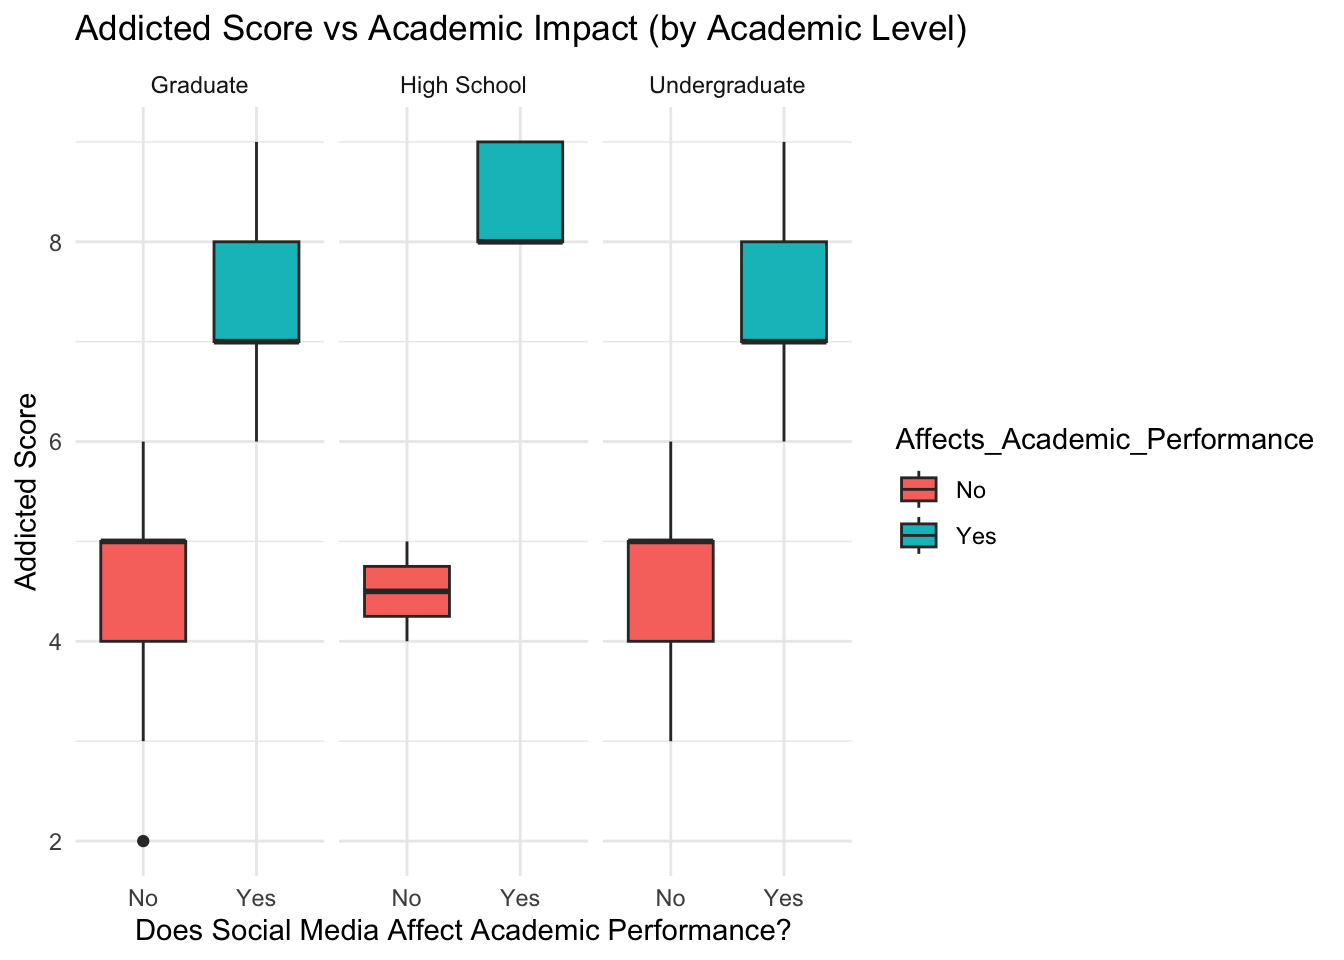
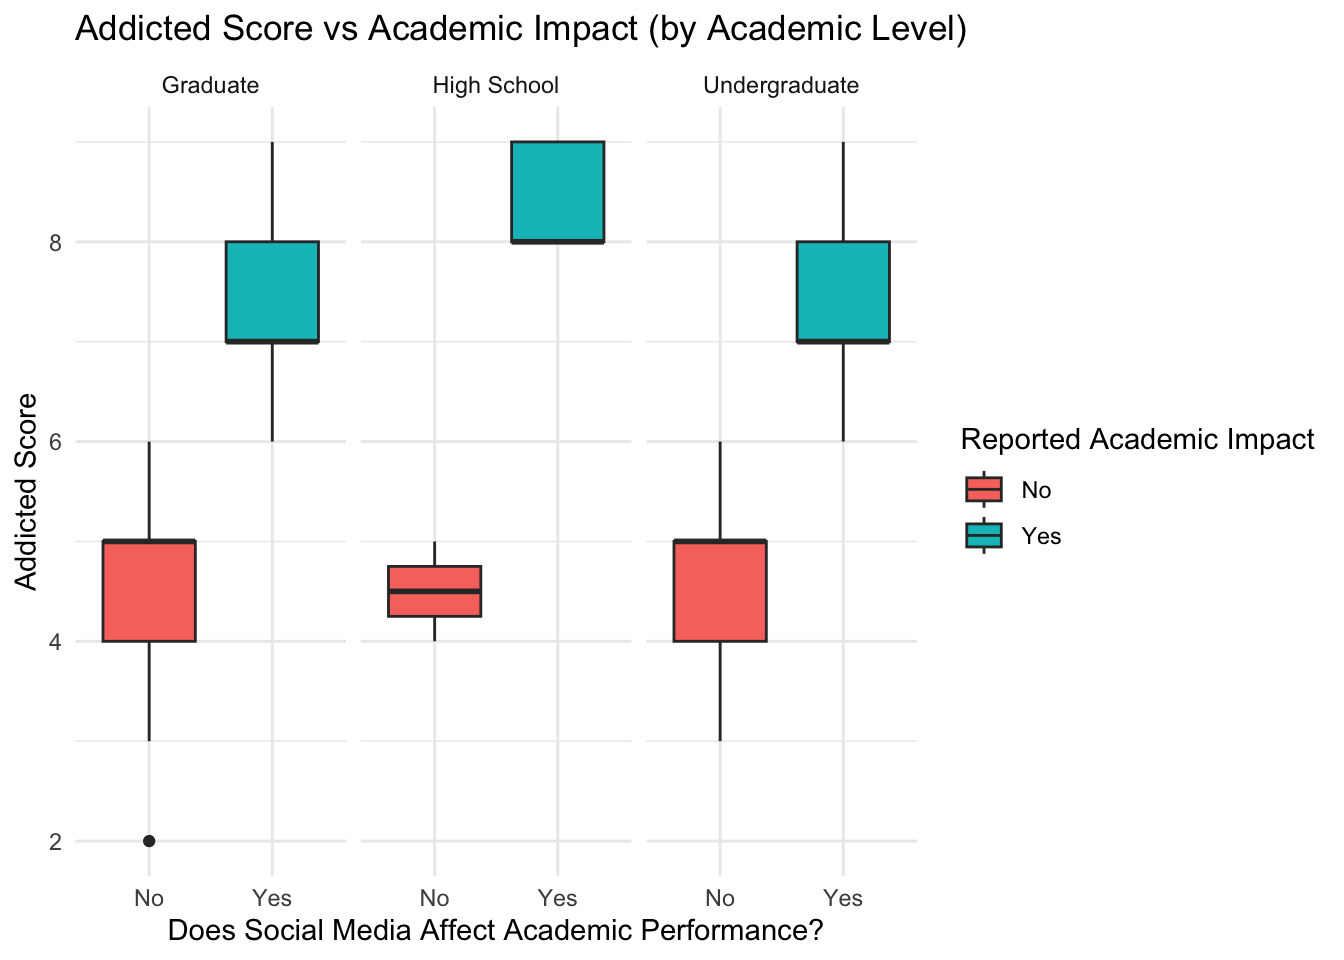
Added Executive Summary

diff --git a/assignment 3.html b/assignment 3.html
@@ -91,10 +91,11 @@ div.csl-indent {
 
 </head>
 
-<body class="fullcontent">
+<body>
 
 <div id="quarto-content" class="page-columns page-rows-contents page-layout-article">
-
+<div id="quarto-margin-sidebar" class="sidebar margin-sidebar">
+<div class="quarto-alternate-formats"><h2>Other Formats</h2><ul><li><a href="assignment-3.pdf"><i class="bi bi-file-pdf"></i>PDF</a></li></ul></div></div>
 <main class="content" id="quarto-document-content">
 
 <header id="title-block-header" class="quarto-title-block default">
@@ -116,6 +117,11 @@ div.csl-indent {
 </header>
 
 
+<div style="page-break-after: always;"></div>
+<section id="executive-summary" class="level2">
+<h2 class="anchored" data-anchor-id="executive-summary">Executive Summary</h2>
+<p>This study explores how social media addiction affects students’ academic performance, interpersonal relationships, and mental health. The results show that higher addiction scores are associated with poorer academic outcomes, increased interpersonal conflict, and reduced mental well-being. This pattern varies across platforms, with WhatsApp, TikTok, and Snapchat showing the highest average addiction scores. These findings may guide future research on social media addiction and help inform policies and educational strategies aimed at improving student well-being.</p>
+</section>
 <section id="introduction" class="level2">
 <h2 class="anchored" data-anchor-id="introduction">Introduction</h2>
 <p>Social media platforms—such as Instagram, TikTok, and YouTube—have become an integral part of students’ lives, which influence their relationships, habits, and self-perception.</p>
@@ -419,8 +425,9 @@ Table&nbsp;2: Average Usage Hours and Addiction Score by Platform
 <span id="cb10-5"><a href="#cb10-5" aria-hidden="true" tabindex="-1"></a>  <span class="fu">facet_wrap</span>(<span class="sc">~</span> Academic_Level) <span class="sc">+</span></span>
 <span id="cb10-6"><a href="#cb10-6" aria-hidden="true" tabindex="-1"></a>  <span class="fu">labs</span>(<span class="at">title =</span> <span class="st">"Addicted Score vs Academic Impact (by Academic Level)"</span>,</span>
 <span id="cb10-7"><a href="#cb10-7" aria-hidden="true" tabindex="-1"></a>       <span class="at">x =</span> <span class="st">"Does Social Media Affect Academic Performance?"</span>,</span>
-<span id="cb10-8"><a href="#cb10-8" aria-hidden="true" tabindex="-1"></a>       <span class="at">y =</span> <span class="st">"Addicted Score"</span>) <span class="sc">+</span></span>
-<span id="cb10-9"><a href="#cb10-9" aria-hidden="true" tabindex="-1"></a>  <span class="fu">theme_minimal</span>()</span></code><button title="Copy to Clipboard" class="code-copy-button"><i class="bi"></i></button></pre></div>
+<span id="cb10-8"><a href="#cb10-8" aria-hidden="true" tabindex="-1"></a>       <span class="at">y =</span> <span class="st">"Addicted Score"</span>,</span>
+<span id="cb10-9"><a href="#cb10-9" aria-hidden="true" tabindex="-1"></a>       <span class="at">fill =</span> <span class="st">"Reported Academic Impact"</span>) <span class="sc">+</span></span>
+<span id="cb10-10"><a href="#cb10-10" aria-hidden="true" tabindex="-1"></a>  <span class="fu">theme_minimal</span>()</span></code><button title="Copy to Clipboard" class="code-copy-button"><i class="bi"></i></button></pre></div>
 <div class="cell-output-display">
 <div id="fig-variablechar" class="quarto-float quarto-figure quarto-figure-center anchored">
 <figure class="quarto-float quarto-float-fig figure">
@@ -452,7 +459,7 @@ Figure&nbsp;4: Addicted Score vs Academic Impact (by Academic Level)
 <li>Use social media as a tool for enrichment rather than one that diminishes personal growth and stability.</li>
 <li>Institutions like schools and universities should provide mental health resources and counseling services that address issues related to digital overuse and stress.</li>
 </ul>
-<p>This study focuses mainly on “How social media addiction affects students in various parts of their lives”. In this analysis, students–mostly undergraduates and graduates are considered to explore the impact of social media addiction on academic performance and interpersonal relationships, as well as how time spent on social media relates to mental health. Our findings could not only inform further research into how these addiction-driven trends are interconnected, but also potentially support governments and educators in developing strategies to promote student well-being.</p>
+<p>This study focuses mainly on “How social media addiction affects students in various parts of their lives”. In this analysis, students–mostly undergraduates and graduates are considered to explore the impact of social media addiction on academic performance and interpersonal relationships, as well as how time spent on social media relates to mental health. Our findings could not only inform further research into how these addiction-driven trends are interconnected, but also potentially support governments and educators in developing strategies to promote student well-being. </p>
 
 </section>
 
